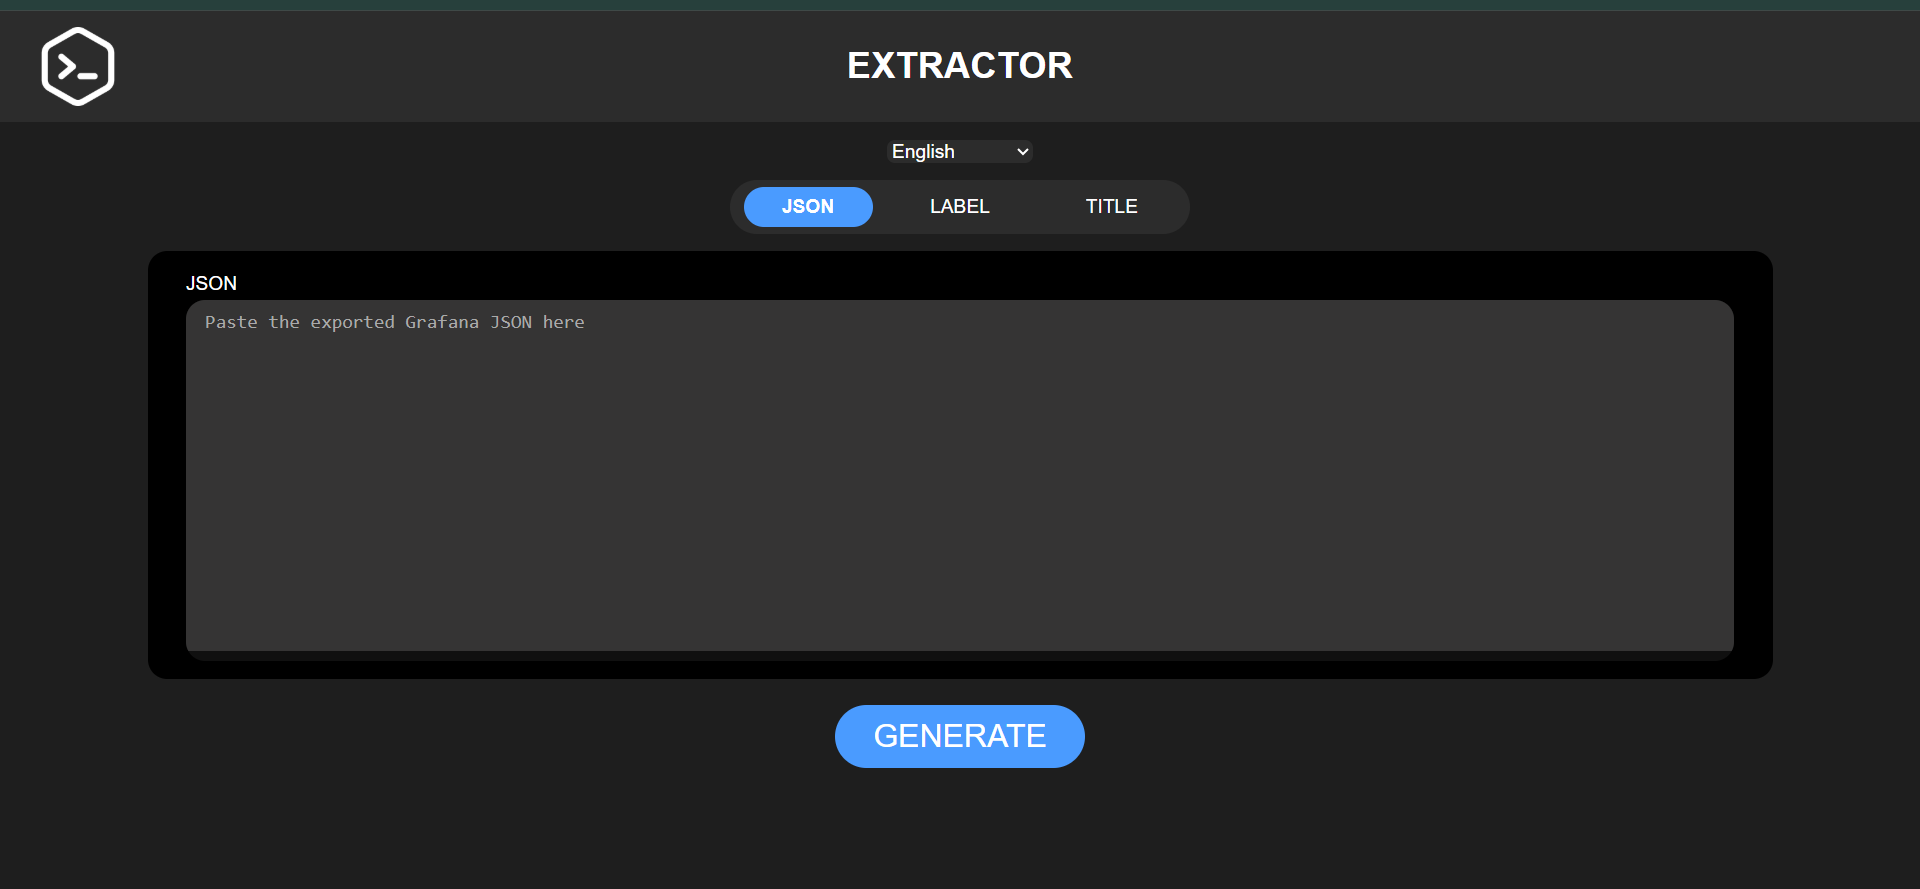
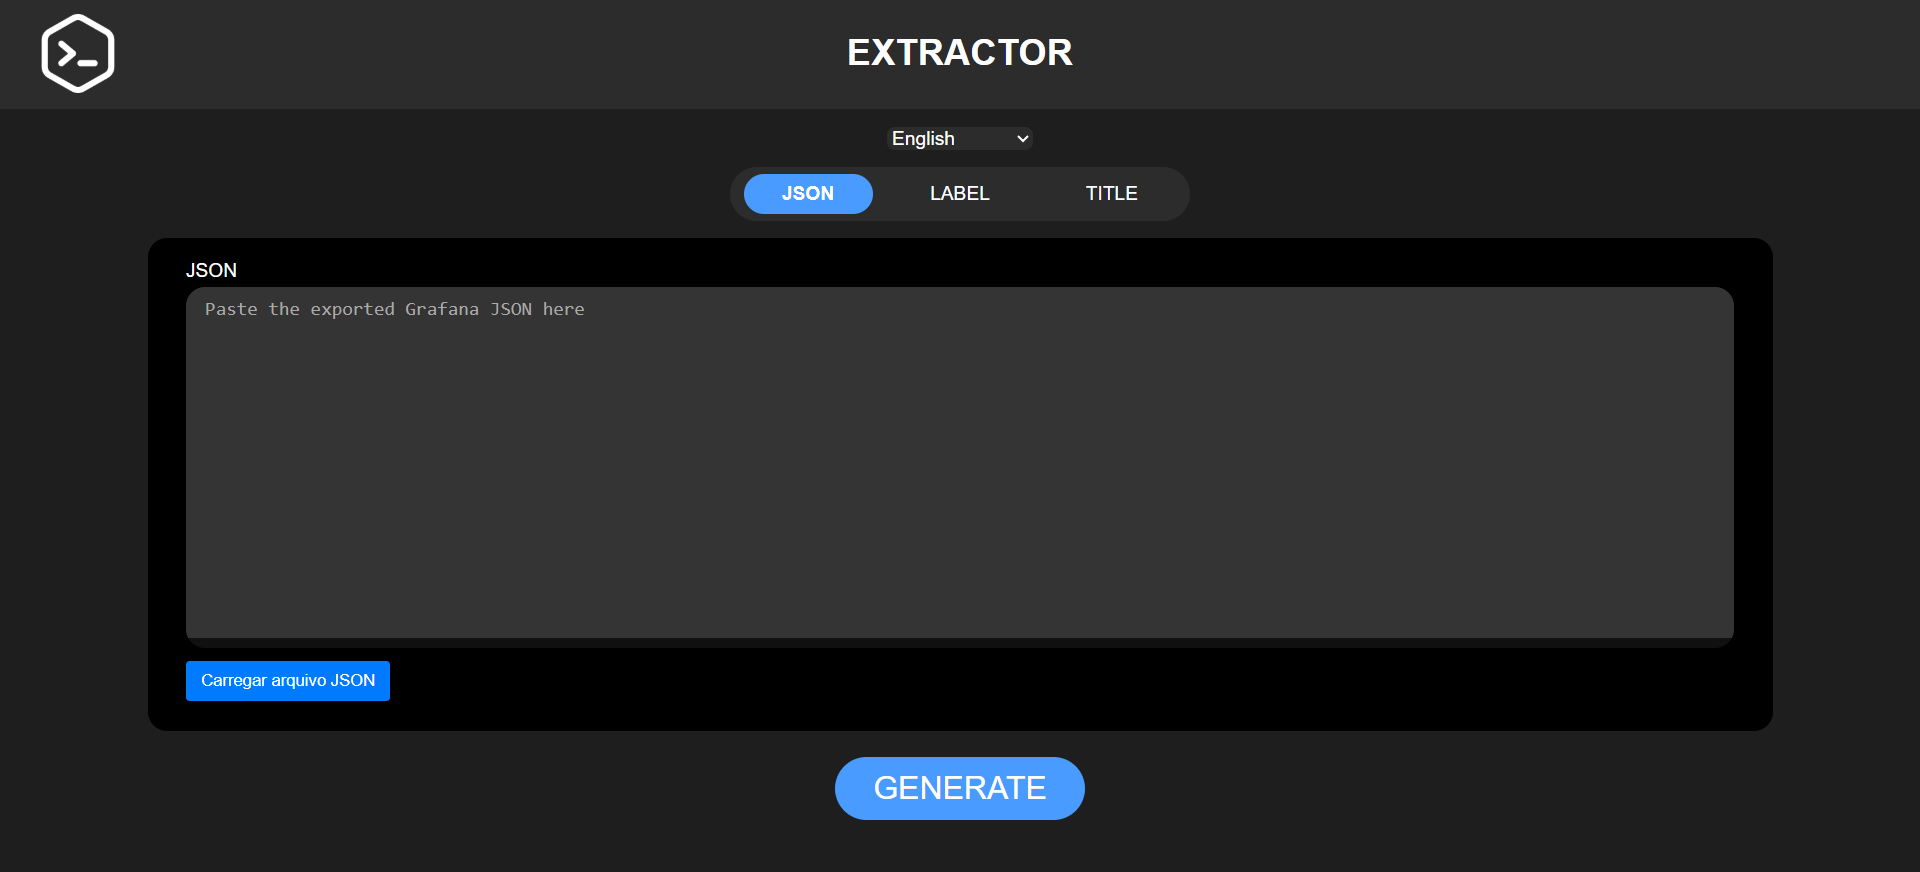
V3.1.1
V3.1.1
correcao de erro

diff --git a/js/core/supportLanguages.js b/js/core/supportLanguages.js
@@ -1,5 +1,7 @@
 export const translations = {
   en: {
+    jsonPlaceholder:"Paste the exported Grafana JSON here",
+    uploadJSON: "Upload JSON file",
     titleLabel: "TITLE",
     titleHelper: `You can use:<br><code>&lt;dashboard name&gt;</code>, <code>&lt;label&gt;</code>`,
     titlePlaceholder: "Ex: <dashboard name> This dashboard provides metrics on <label>.",
@@ -27,6 +29,8 @@ Use <code>&lt;all&gt;</code> or <code>&lt;todos&gt;</code> to auto-include all l
     }
   },
   pt: {
+    jsonPlaceholder:"Cole o JSON exportado do Grafana aqui.",
+    uploadJSON: "Carregar arquivo JSON",
     titleLabel: "TÍTULO",
     titleHelper: `Você pode usar:<br><code>&lt;dashboard name&gt;</code>, <code>&lt;label&gt;</code>`,
     titlePlaceholder: "Ex: <dashboard name> Este dashboard apresenta métricas de <label>.",
@@ -74,13 +78,15 @@ export function applyLanguage(lang = "en") {
     <input type="checkbox" id="hideEmpty"> ${t.hideEmpty}
   `;
 
-  // Placeholder
+  // Placeholders
   document.getElementById('titleInput').placeholder = t.titlePlaceholder;
+  document.getElementById('jsonInput').placeholder = t.jsonPlaceholder; 
 
-  // Generate button
-  document.getElementById('generateBtn').textContent = t.generate;
+  // Botão de upload JSON
+  document.getElementById('uploadJsonButton').textContent = t.uploadJSON; 
 
   // Modal labels
   document.querySelector('.modal-header .icon-label:nth-child(1)').textContent = t.modalLabels.md;
   document.querySelector('.modal-header .icon-label:nth-child(3)').textContent = t.modalLabels.txt;
 }
+

diff --git a/index.html b/index.html
@@ -39,7 +39,7 @@
     </div>
     <div class="file-upload-container">
       <input type="file" id="jsonFileInput" accept=".json" style="display: none;">
-      <button id="uploadJsonButton" type="button">Carregar arquivo JSON</button>
+      <button id="uploadJsonButton" type="button">Upload JSON file</button>
     </div>
     <div id="filePreviewContainer" class="file-preview"></div>
   </div>

diff --git a/README.md b/README.md
@@ -6,18 +6,18 @@
 
 ---
 
-# EXTRATOR — Versão 3.0.0
+# EXTRATOR — Versão 3.1.0
 
 ---
 
 ## 🇧🇷 EXTRATOR (PT-BR) <a name="extrator-pt-br"></a>
 
-**EXTRATOR** é uma ferramenta web avançada para extrair de forma inteligente e formatada expressões **PromQL** e dados de coleta **Zabbix** a partir de dashboards exportados do **Grafana**, agora com suporte multilíngue e filtros otimizados por **labels**.
+**EXTRATOR** é uma ferramenta web avançada para extrair de forma inteligente e formatada expressões **PromQL** e dados de coleta **Zabbix** a partir de dashboards exportados do **Grafana**, com suporte multilíngue, filtros otimizados por **labels** e interface interativa.
 
 ---
 
 ### 🎯 Objetivo do Projeto
-Modernizar a auditoria de dashboards Grafana, oferecendo uma experiência interativa e multilíngue com extração detalhada de dados Prometheus e Zabbix.
+Modernizar a auditoria de dashboards Grafana, oferecendo uma experiência fluida, offline, multilíngue e automatizada para extração de métricas Prometheus e Zabbix.
 
 ---
 
@@ -30,17 +30,14 @@ Ideal para:
 
 ---
 
-### 🆕 Novidades da versão 3.0.0
+### 🆕 Novidades da versão 3.1.0
 
-- 🌐 **Suporte multilíngue (EN / PT-BR)**
-- 🏷 **Unificação de Tags como Labels**, aplicável a:
-  - `legendFormat` e `refId` (Prometheus)
-  - `setAlias` e `refId` (Zabbix)
-- 🧠 **Filtro por Label** mais inteligente e centralizado
-- 🧼 **Saída formatada com tradução dinâmica** por idioma
-- 🧾 Novo placeholder `<label>` para título/template
-- 🔄 Interface reativa sem recarregar a página
-- ✍ Melhorias visuais e textuais na UI
+- 📎 **Upload de arquivo JSON por botão ou arrastar & soltar**
+- 💾 **Conteúdo do arquivo armazenado internamente**, sem sobrescrever o campo de texto
+- 🧩 **Preview visual do anexo**
+- 🧠 Campo de texto permanece disponível para edição manual opcional
+- 💡 Ajustes visuais e feedback durante o "drag & drop"
+- 🔁 Arquitetura mantida: **MVC + Hexagonal**
 
 ---
 
@@ -62,15 +59,14 @@ Ideal para:
 - Elimina trabalho manual repetitivo
 - Facilita auditoria e documentação técnica
 - Funciona offline
-- Visual clean e responsivo
-- Tradução dinâmica da interface e saída
+- Interface responsiva e multilíngue
 
 ---
 
 ### 🧱 Tecnologias Utilizadas
 
 - HTML5 + CSS3
-- JavaScript Vanilla (ES Modules)
+- JavaScript (ES Modules)
 - Arquitetura modular (MVC + Hexagonal)
 - Interface multilíngue com `supportLanguages.js`
 
@@ -96,44 +92,41 @@ Ideal para:
 
 ## 🇺🇸 EXTRATOR (EN) <a name="extrator-en"></a>
 
-**EXTRATOR** is a powerful web tool for intelligently extracting and formatting **PromQL** and **Zabbix collection data** from **Grafana dashboards**, now with multilingual support and advanced label filtering.
+**EXTRATOR** is a powerful web tool for intelligently extracting and formatting **PromQL** and **Zabbix** data from **Grafana dashboards**, now with drag & drop support and advanced internal JSON handling.
 
 ---
 
 ### 🎯 Project Goal
 
-Provide a modern, interactive interface for auditing Grafana dashboards with structured Prometheus and Zabbix data extraction — now in English and Portuguese-BR.
+Provide a modern, interactive interface for auditing Grafana dashboards with structured Prometheus and Zabbix extraction — fully offline, multilingual, and user-friendly.
 
 ---
 
 ### 🛠 Purpose
 
-Built for:
+Designed for:
 
 - Network Engineers
 - NOC / SRE teams
-- Observability professionals
+- Infrastructure & Observability professionals
 
 ---
 
-### 🆕 What's New in Version 3.0.0
+### 🆕 What's New in Version 3.1.0
 
-- 🌐 **Multilanguage Support (EN / PT-BR)**
-- 🏷 **Unified Labels** for filtering:
-  - `legendFormat` and `refId` (Prometheus)
-  - `setAlias` and `refId` (Zabbix)
-- 🧠 **Smarter label filtering**
-- 📌 Formatted output translated dynamically
-- ✍ New `<label>` placeholder (replacing `<tag>`)
-- ⚡ Reactive UI with no page reload
-- 📎 Improved UI/UX experience
+- 📎 **Drag & drop JSON support**,
+- 📂 **Upload via button or drop area**
+- 🧠 JSON content is stored in memory (not overwritten in text box)
+- 🧾 **File preview UI** with `<>` icon and filename
+- ✍ Text area remains available for manual edits
+- 🔁 Maintains clean **MVC + Hexagonal** architecture
 
 ---
 
 ### ⚙ What It Does
 
 - Parses `.json` dashboards exported from Grafana
-- Detects both Prometheus and Zabbix targets
+- Detects Prometheus and Zabbix targets
 - Extracts:
   - Prometheus: `expr`, `legendFormat`, `refId`
   - Zabbix: `refId`, `group`, `host`, `item`, `setAlias`
@@ -146,9 +139,10 @@ Built for:
 ### 🚀 Practical Benefits
 
 - Reduces manual dashboard audits
-- Creates consistent technical reports
-- Works entirely offline
-- Multilingual support without reload
+- Creates consistent technical documentation
+- Fully offline and lightweight
+- Multilingual interface
+- Modern UX, drag-and-drop friendly
 
 ---
 
@@ -156,15 +150,15 @@ Built for:
 
 - HTML5 + CSS3
 - Vanilla JS (ES Modules)
-- MVC + Hexagonal architecture
-- `supportLanguages.js` for dynamic i18n
+- MVC + Hexagonal Architecture
+- `supportLanguages.js` for i18n
 
 ---
 
 ### 📌 Current Limitations
 
-- Only works with Grafana `.json` dashboards
-- Supports `Prometheus` and `Zabbix` datasources
+- Only supports Grafana `.json` dashboards
+- Prometheus and Zabbix datasources only
 
 ---
 
@@ -172,8 +166,8 @@ Built for:
 
 - Metric auditing
 - Zabbix / Prometheus validation
-- Internal documentation
-- Report standardization for critical teams
+- Technical documentation generation
+- Dashboard inspection for critical environments
 
 ---
 
